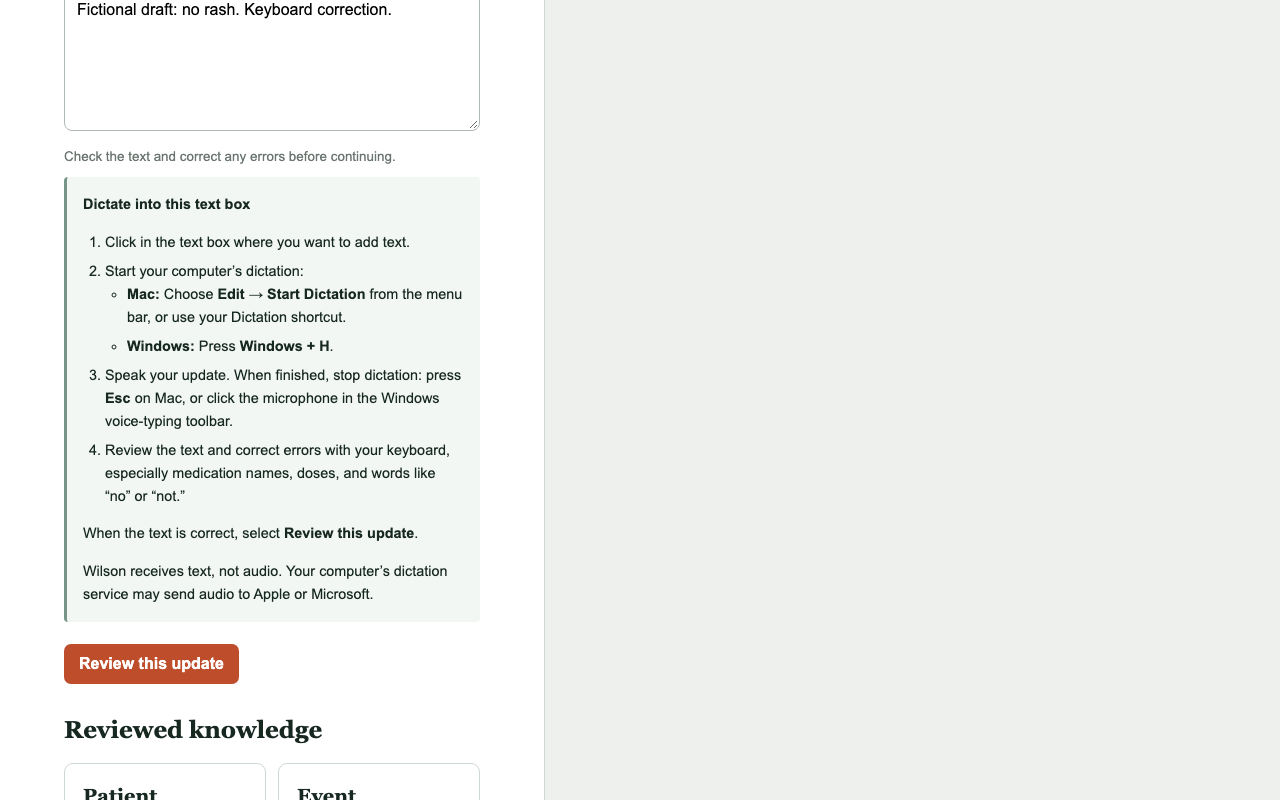
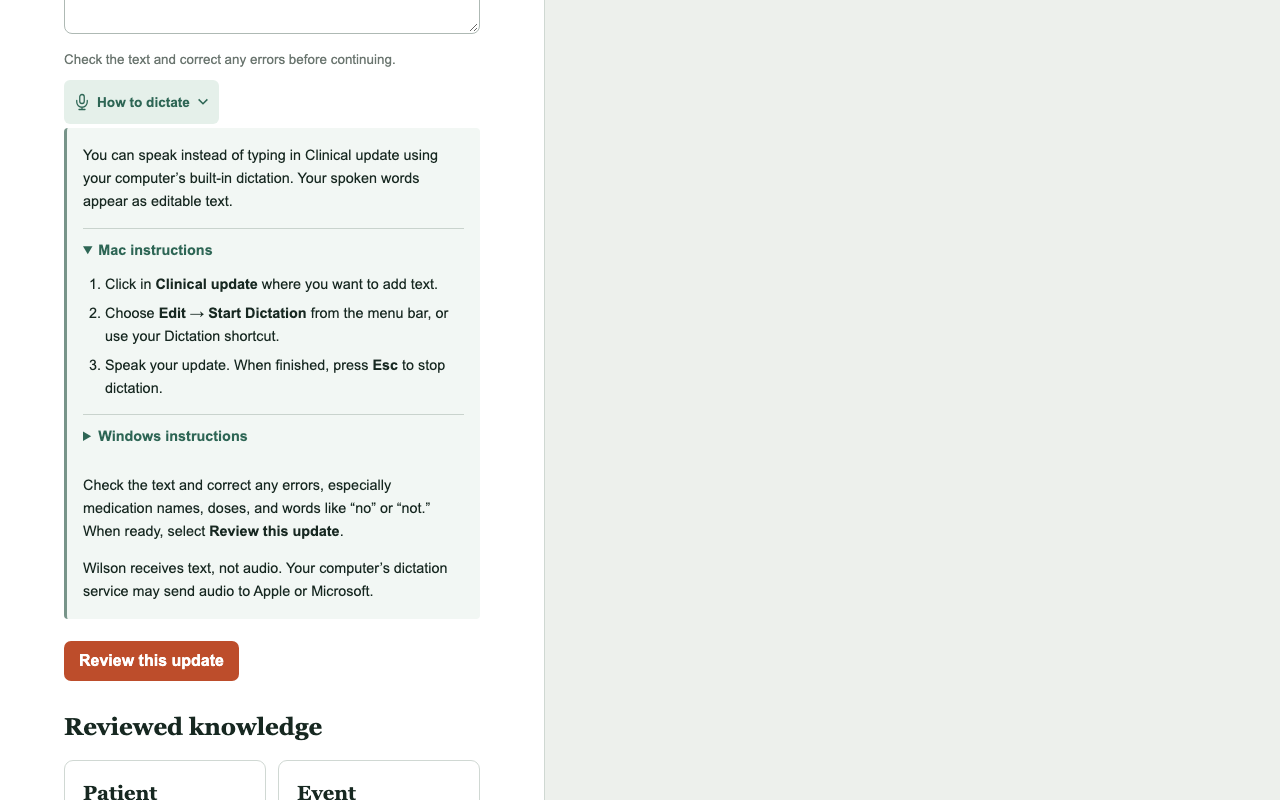
Place dictation help below inputs and separate platform instructions

diff --git a/app/journey.tsx b/app/journey.tsx
@@ -219,8 +219,10 @@ function NarrativeInput({ id, label, context, rows, value, onChange }: {
 }) {
   const [helpOpen, setHelpOpen] = useState(false);
   return <div>
-    <div className={styles.narrativeLabel}>
-      <label htmlFor={id}>{label}</label>
+    <label htmlFor={id}>{label}</label>
+    <textarea id={id} rows={rows} value={value} onChange={(event) => onChange(event.target.value)} aria-describedby={`${id}-hint`} />
+    <p id={`${id}-hint`} className={styles.hint}>Check the text and correct any errors before continuing.</p>
+    <div className={styles.dictationDisclosure}>
       <button type="button" className={styles.dictationToggle} aria-expanded={helpOpen} aria-controls={`${id}-dictation`}
         onClick={() => setHelpOpen(!helpOpen)}>
         <svg aria-hidden="true" width="18" height="18" viewBox="0 0 24 24" fill="none" stroke="currentColor" strokeWidth="1.7" strokeLinecap="round">
@@ -232,24 +234,27 @@ function NarrativeInput({ id, label, context, rows, value, onChange }: {
           <path d="m5 3 5 5-5 5" />
         </svg>
       </button>
-    </div>
-    <textarea id={id} rows={rows} value={value} onChange={(event) => onChange(event.target.value)} aria-describedby={`${id}-hint`} />
-    <p id={`${id}-hint`} className={styles.hint}>Check the text and correct any errors before continuing.</p>
-    <div id={`${id}-dictation`} className={styles.dictationHelp} hidden={!helpOpen}>
-      <strong>Dictate into this text box</strong>
-      <ol>
-        <li>Click in the text box where you want to add text.</li>
-        <li>Start your computer’s dictation:
-          <ul>
-            <li><strong>Mac:</strong> Choose <strong>Edit → Start Dictation</strong> from the menu bar, or use your Dictation shortcut.</li>
-            <li><strong>Windows:</strong> Press <strong>Windows + H</strong>.</li>
-          </ul>
-        </li>
-        <li>Speak your {context}. When finished, stop dictation: press <strong>Esc</strong> on Mac, or click the microphone in the Windows voice-typing toolbar.</li>
-        <li>Review the text and correct errors with your keyboard, especially medication names, doses, and words like “no” or “not.”</li>
-      </ol>
-      <p>When the text is correct, select <strong>{context === "account" ? "Review Wilson’s understanding" : "Review this update"}</strong>.</p>
-      <p>Wilson receives text, not audio. Your computer’s dictation service may send audio to Apple or Microsoft.</p>
+      <div id={`${id}-dictation`} className={styles.dictationHelp} hidden={!helpOpen}>
+        <p>You can speak instead of typing in {label} using your computer’s built-in dictation. Your spoken words appear as editable text.</p>
+        <details className={styles.dictationPlatform}>
+          <summary>Mac instructions</summary>
+          <ol>
+            <li>Click in <strong>{label}</strong> where you want to add text.</li>
+            <li>Choose <strong>Edit → Start Dictation</strong> from the menu bar, or use your Dictation shortcut.</li>
+            <li>Speak your {context}. When finished, press <strong>Esc</strong> to stop dictation.</li>
+          </ol>
+        </details>
+        <details className={styles.dictationPlatform}>
+          <summary>Windows instructions</summary>
+          <ol>
+            <li>Click in <strong>{label}</strong> where you want to add text.</li>
+            <li>Press <strong>Windows + H</strong> to start voice typing.</li>
+            <li>Speak your {context}. When finished, click the microphone in the Windows voice-typing toolbar to stop dictation.</li>
+          </ol>
+        </details>
+        <p>Check the text and correct any errors, especially medication names, doses, and words like “no” or “not.” When ready, select <strong>{context === "account" ? "Review Wilson’s understanding" : "Review this update"}</strong>.</p>
+        <p>Wilson receives text, not audio. Your computer’s dictation service may send audio to Apple or Microsoft.</p>
+      </div>
     </div>
   </div>;
 }

diff --git a/app/page.module.css b/app/page.module.css
@@ -265,14 +265,16 @@ button:disabled {
 .updateBox label { display: block; font-weight: 700; margin: 12px 0 6px; }
 .updateBox textarea { border: 1px solid #aeb9b4; border-radius: 8px; font: inherit; line-height: 1.5; padding: 12px; resize: vertical; width: 100%; }
 .updateBox button { background: #bd4d2b; border: 0; border-radius: 7px; color: white; cursor: pointer; font: inherit; font-weight: 800; margin-top: 10px; padding: 11px 15px; }
-.narrativeLabel { align-items: center; display: flex; flex-wrap: wrap; gap: 4px 12px; margin: 20px 0 8px; }
-.narrativeLabel label { margin: 0; }
-.narrativeLabel .dictationToggle { align-items: center; background: transparent; border: 1px solid transparent; border-radius: 6px; color: #2e6655; cursor: pointer; display: inline-flex; font: inherit; font-size: .85rem; font-weight: 700; gap: 6px; margin: 0; min-height: 44px; padding: 8px; }
+.dictationDisclosure { margin: 12px 0; }
+.dictationDisclosure .dictationToggle { align-items: center; background: transparent; border: 1px solid transparent; border-radius: 6px; color: #2e6655; cursor: pointer; display: inline-flex; flex-wrap: wrap; font: inherit; font-size: .85rem; font-weight: 700; gap: 6px; margin: 0; min-height: 44px; padding: 8px; }
 .dictationToggle[aria-expanded="true"] { background: #e5f0ea; }
 .dictationToggle[aria-expanded="true"] .dictationArrow { transform: rotate(90deg); }
-.dictationToggle:focus-visible { outline: 2px solid #2e6655; outline-offset: 2px; }
-.dictationHelp { background: #f2f7f4; border-left: 3px solid #779489; border-radius: 4px; font-size: .9rem; line-height: 1.6; margin: 12px 0; padding: 16px; }
-.dictationHelp ol, .dictationHelp ul { padding-left: 22px; }
+.dictationToggle:focus-visible, .dictationPlatform summary:focus-visible { outline: 2px solid #2e6655; outline-offset: 2px; }
+.dictationHelp { background: #f2f7f4; border-left: 3px solid #779489; border-radius: 4px; font-size: .9rem; line-height: 1.6; margin-top: 4px; padding: 16px; }
+.dictationHelp > p:first-child { margin-top: 0; }
+.dictationPlatform { border-top: 1px solid #c9d3cd; }
+.dictationPlatform summary { color: #2e6655; cursor: pointer; font-weight: 700; min-height: 44px; padding: 10px 0; }
+.dictationPlatform ol { margin-top: 0; padding-left: 22px; }
 .dictationHelp li + li { margin-top: 6px; }
 .dictationHelp p:last-child { margin-bottom: 0; }
 .reviewedHeading { margin-top: 32px; }

diff --git a/evidence/issue-85/README.md b/evidence/issue-85/README.md
@@ -1,9 +1,16 @@
 # Issue #85 dictation-help evidence
 
-The shared narrative input uses only local disclosure state and the existing
-controlled textarea. Exact approved interaction/copy belongs to issue #85.
-No audio capture, permission request, dictation detection, automatic submission,
-case/model change, or PDF change was introduced.
+This evidence reflects Steve’s approved feedback revision in the same issue
+and PR #86: the help toggle is below the textarea and visible correction
+reminder, immediately beside its panel. Context explains native dictation
+before separate, initially collapsed Mac and Windows instructions. Steps name
+Clinical account or Clinical update explicitly. The approved copy belongs to
+issue #85; the Product clarification still describes the two review gates.
+
+The shared narrative input uses local outer disclosure state and native
+`details`/`summary` platform sections. No audio capture, permission request,
+dictation detection, automatic submission, case/model/PDF change, dependency,
+or persistent preference was introduced.
 
 ## Verification
 
@@ -12,46 +19,53 @@ On macOS with Node 24.20.0:
 - `npm run typecheck` passed.
 - `npm test` passed: 21 files, 152 tests (pypdf 6.16.2).
 - `npm run build` passed.
-- `npm run test:e2e` passed: the existing assembled deterministic journeys and
-  independent PDF assertions, 22.2 seconds. No live application-model calls.
-- Focused browser checks passed in Chromium 153.0.8010.12 and Playwright Firefox
-  155.0 on this Mac. `browser-checks.json` records the checks and browser versions.
-  Both opening and update controls were exercised through pointer, Enter, and
-  Space toggles; exposed expanded state; retained textarea DOM identity, draft
-  text, and selection; retained button focus on toggle; allowed keyboard edits
-  while open; and made zero case requests or microphone requests during help
-  use. The existing explicit submissions reached their proposal-review stages
-  using the existing repeated-product deterministic scenario.
-- Desktop geometry and trial-click checks passed at 1280×800 and 1440×900,
-  with a 480px narrow-width wrapping check. No document overflow at those sizes.
-  Both help targets are at least 44px high, and submit controls remain reachable
-  by ordinary scrolling. Code inspection confirms visible keyboard focus styles,
-  decorative SVGs hidden from assistive technology, and no audio API dependency.
+- `npm run test:e2e` passed: existing assembled deterministic journeys and
+  independent PDF assertions, 22.3 seconds. No live application-model calls.
+- Focused Chromium 153.0.8010.12 and Playwright Firefox 155.0 checks exercise
+  outer, Mac, and Windows toggles by pointer, Enter, and Space. They verify
+  initially collapsed state, independent platform sections, focus, retained
+  textarea identity/text/selection, editing while open, and no case or
+  microphone requests during help use. Closing/reopening outer help retains
+  the selected platform, without a persistent preference. Existing explicit
+  opening/update actions still reach proposal review through the repeated-
+  product deterministic scenario. Results are in `browser-checks.json`.
+- Chromium’s native accessibility tree exposes each platform disclosure’s
+  expanded state. Firefox keyboard behavior and native `details.open` state
+  are checked; no Firefox assistive-technology certification is claimed.
+- At 1280×800, 1440×900, and 480px width, geometry checks verify the toggle is
+  below the textarea and the panel begins within 6px of its toggle. Controls
+  have a 44px minimum height (0.01px geometry tolerance for Firefox rounding),
+  no document overflow occurs, and submit actions remain reachable by normal
+  scrolling. Code inspection confirms visible focus styles and decorative SVGs
+  hidden from assistive technology.
 
-Retained screenshots show collapsed/expanded opening and update help at both
-desktop sizes, with full-page expanded captures for context. Implementer visual
-inspection confirmed readable copy, neutral microphone icons, wrapped help,
-and no overlap at those desktop sizes. Expanded viewport screenshots scroll to
-show the instructions and submit action; full-page images also show the field
-label and disclosure control above them.
+Screenshots for both fields and desktop sizes cover `collapsed` outer help,
+`platforms-closed` (context and both platform choices), `expanded` (Mac only),
+and `windows` (Windows only). `full` captures give whole-page context with Mac
+open. These replace the initial implementation screenshots; Git history retains
+that version. Implementer visual inspection confirms adjacent toggle/panel,
+readable context and platform-specific steps, neutral microphone icons, and
+reachable submit actions without overlap.
 
-The focused harness initially used the full ordered fixture queue with a single
-selected scenario; that mismatch was corrected to the repeated-product pair
-before collecting passing evidence. This was a temporary harness correction,
-not a product or test-contract change. The harness is deliberately not a new
-permanent copy/markup test suite.
+The temporary focused harness uses the existing repeated-product fixture pair
+once per browser. Native expansion is inspected through Chromium’s actual
+accessibility tree because Playwright’s simplified ARIA snapshot omits the
+native disclosure role. No permanent copy/markup test suite was added.
 
-## Limits
+## Limits and delivery
 
-Native Mac/Windows dictation was not exercised. Automated Firefox-on-Mac checks
-establish layout, toggling, and editing, not the system dictation service or its
+Native Mac/Windows dictation remains untested. Automated Firefox-on-Mac checks
+establish layout, toggling, and editing, not the system dictation service or
 medical accuracy. A fictional dictation check on the intended demo machine
 remains manual. No real clinical data or live-model benchmark was used.
 
-A preliminary 390px check exposed roughly 10px of existing header overflow;
-the new field/help remained bounded. This unchanged header layout is outside
-the requested desktop-first help slice; 480px wrapping passed. No broad mobile
-redesign or accessibility certification is claimed.
+The initial implementation’s 390px check exposed roughly 10px of existing
+header overflow; the help stayed bounded. This unchanged header remains outside
+the desktop-first slice; 480px wrapping passes. No mobile redesign is claimed.
 
-The PR owns the independent review and deployment/access/retention record.
+PR #86 owns the independent review and deployment record. The first handoff’s
+original-link preservation incident remains unresolved. This revision does not
+create, revoke, replace, or redirect a share grant or change retention/protection
+settings. The existing shared exact-deployment URL serves the earlier commit;
+a later branch push produces a separate Vercel-authenticated Git preview.
 Share bearer secrets and administrator credentials are not evidence artifacts.
